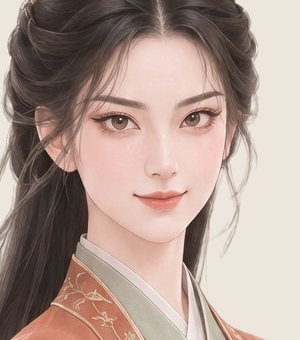
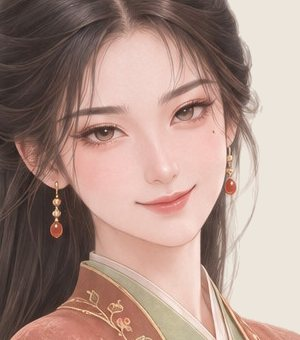
F3: owner OK (Lượt 961) s44 Quyến rũ → FACE_CUTS/FACE_MAP/crop switched
Claude-Session: https://claude.ai/code/session_01PEhRbvav3JYnikHwSBBK43

diff --git a/dev/art/face-common/LOOK_GROUPS.md b/dev/art/face-common/LOOK_GROUPS.md
@@ -89,3 +89,4 @@ File máy đọc: dev/art/face-common/OWNER_GROUPS_L686.json
 - ROOT-60 chọn 3 người mới nhất của Sắc sảo: s43 s44 s45 → Quyến rũ (chủ có thể đổi người).
 - Sau: Sắc sảo 15 · Quyến rũ 18 · Lạnh lùng 15 · Kiêu kỳ 15 · Đoan trang 12 · Dịu dàng 11 = 86.
 - Lượt 949/950 (F3): owner "Quyến rũ ok" → s43 + s45 NEW Quyến rũ faces (make_quyenru_s43_45.py → sNN.qr.FULL.txt, root_drawn colours L27): s43 cut lJtdYwigv9 (was Sắc sảo 79foGqDJAL), s45 cut cpSxQta0eP (was kseWyhP16B). s44 waits for a non-grey sec colour (owner "Xám là bỏ hết"). Sheet: dev/handover/review-sheets/new-faces-v4/quyenru_s43_45_F3.jpg.
+- Lượt 961 (F3): owner "Ok, quyến rũ mới ok." → s44 NEW Quyến rũ face (s44.qr.FULL.txt, soft burnt sienna #A6593F + sage green #94B594, P3 deep file): cut DoOgxICpcl (was Sắc sảo 79foGbpJAL). s43 s44 s45 now all Quyến rũ.

diff --git a/dev/handover/reports/F3-quyenru-s43-45.md b/dev/handover/reports/F3-quyenru-s43-45.md
@@ -38,3 +38,4 @@ START_CTX ≈4 % of 1M (estimate; get_session read 0) · depth 7 (limit 8) · wo
 - Looked: eyes level, lips closed, no teeth, pomegranate held, sienna + sage green clear, beauty mark under her LEFT eye (right side of picture), no forehead mark.
 - Faults (not fixed): red drop earrings (not in prompt); NEW again very close to OLD (same body/robe), the change is the face + greener skirt.
 - FACE_CUTS/FACE_MAP for s44 NOT switched (waiting for owner OK).
+- Owner OK Lượt 961 → s44 FACE_CUTS/FACE_MAP/crop switched to DoOgxICpcl, ledger OWNER-OK. F3 done, idle. Total 414 credits.
